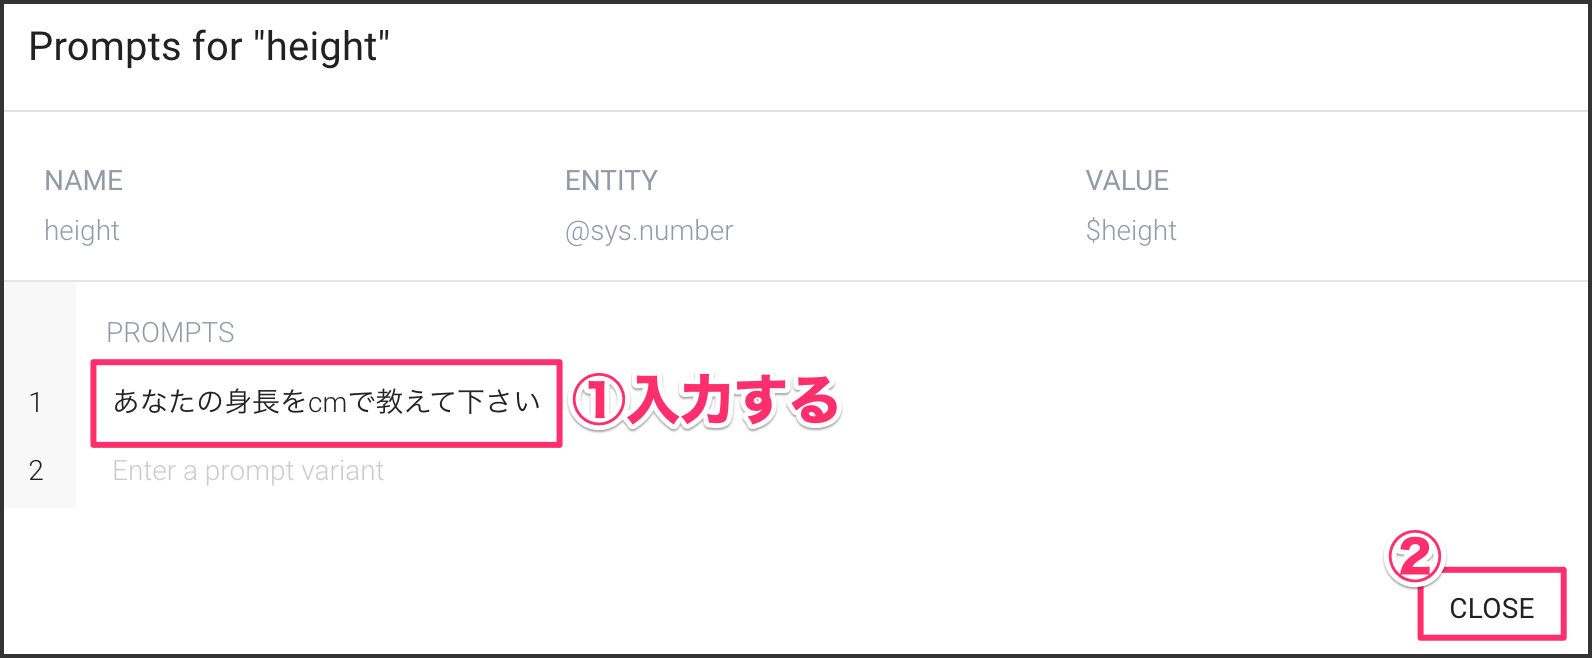
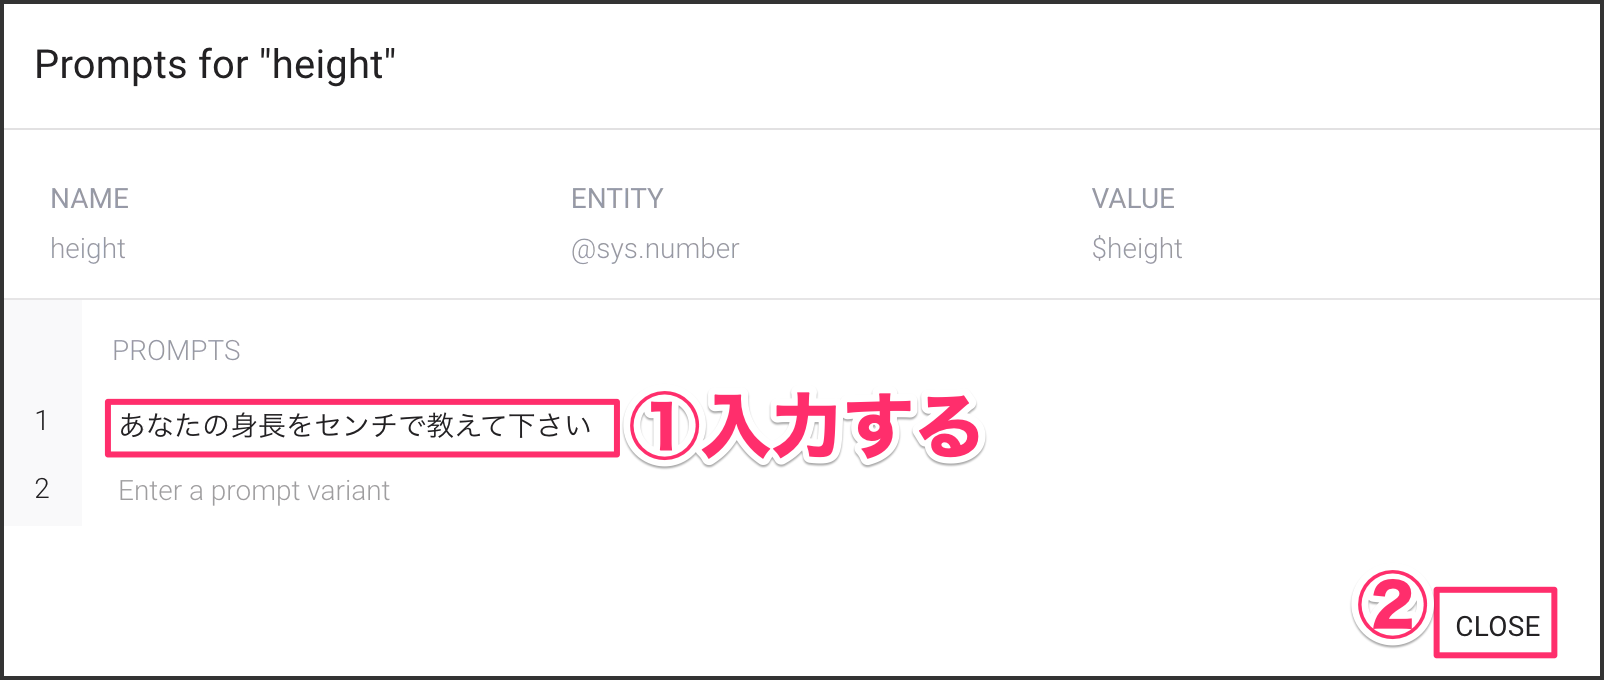
画像修正

diff --git a/dialoflow-linebot-playground/step3.md b/dialoflow-linebot-playground/step3.md
@@ -18,9 +18,7 @@
 
 入力したら、［Define prompts］をクリックします。ポップアップが表示されるので、身長を答えてもらえるような言葉を登録します。
 
-```
-あなたの身長をcmで教えて下さい
-```
+`あなたの身長をセンチで教えて下さい`{{copy}}
 
 ![s402](https://raw.githubusercontent.com/gaomar/katacoda-scenarios/master/dialoflow-linebot-playground/images/s402.png)
 
@@ -32,7 +30,7 @@
 |PARAMETER NAME|weight|
 |ENTITY|@sys.number|
 |VALUE|$weight|
-|PROMPTS|続いてあなたの体重をkgで教えて下さい|
+|PROMPTS|`続いてあなたの体重をキログラムで教えて下さい`{{copy}}|
 
 このようになればOKです。
 
